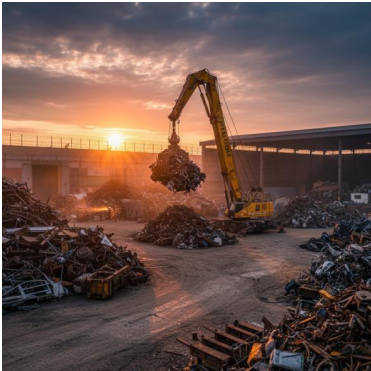
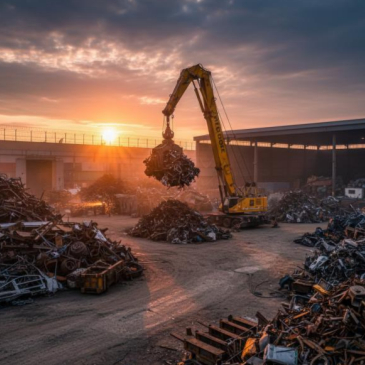
go

diff --git a/src/App.tsx b/src/App.tsx
@@ -16,7 +16,6 @@ import BlogDetailPage from "./pages/BlogDetailPage";
 import ContactPage from "./pages/ContactPage";
 import LiveBrochurePage from "./pages/LiveBrochurePage";
 import NotFound from "./pages/NotFound";
-import CursorFollower from "./components/CursorFollower";
 import ScrollToTop from "./components/ScrollToTop";
 
 const queryClient = new QueryClient();
@@ -25,7 +24,6 @@ const App = () => (
   <HelmetProvider>
     <QueryClientProvider client={queryClient}>
       <TooltipProvider>
-        <CursorFollower />
         <Toaster />
         <Sonner />
         <BrowserRouter>
